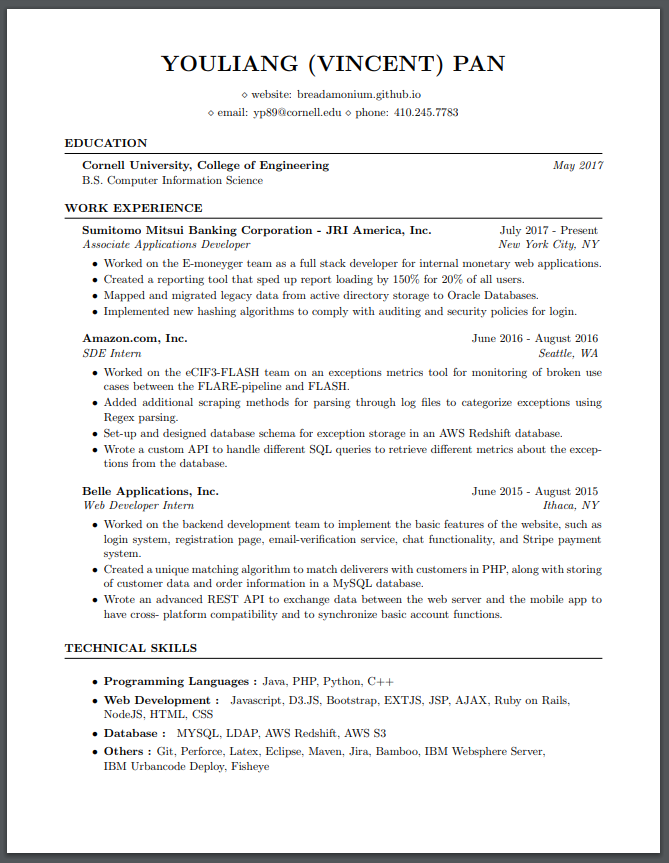
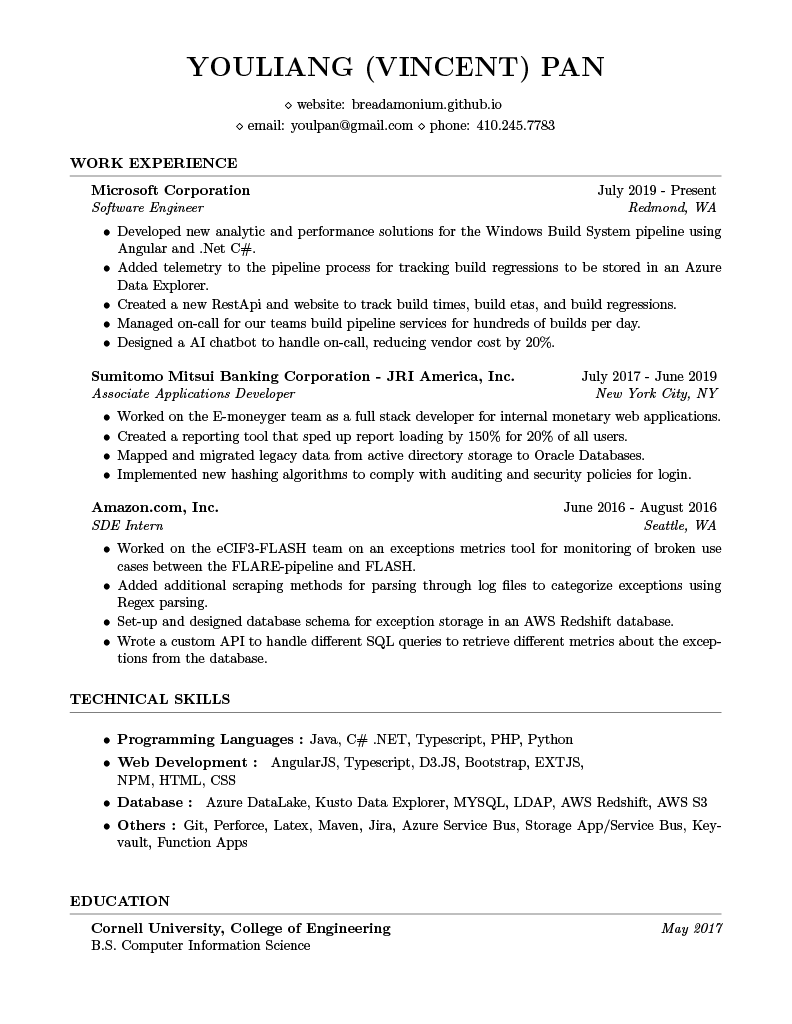
Resume Update

Changed region(s): [[0.0, 0.0, 1.0, 1.0], [0.8371, 0.8737, 0.8969, 0.934]]

diff --git a/index.html b/index.html
@@ -107,17 +107,16 @@
                     <div class="about-content">
                         <br>
                         <h3>Hello! Please call me Vincent!</h3>
-                        <p>I am a full stack software engineer currently working in New York City. 
-                            I graduated from Cornell University with a Bachelor's of Science in Computer Science. 
-                            I am currently an Associate Software Developer at Sumitomo-Misui Banking corporation where I 
-                            create software using Java, Spring, and EXTJS.</p>
+                        <p>I am a full stack software engineer currently working in at Microsoft in Seattle, WA. I work 
+                            on the Window Build Engineering Systems to improve the process
+                            I graduated from Cornell University with a Bachelor's of Science in Computer Information Science.</p>
                     </div>
                 </div>
 
                 <div class="col-xs-12 col-md-4 skills-section">
 
                     <div class="progress-bar-linear">
-                        <p class="progress-bar-text">Java, PHP, Javascript, SQL, HTML</p>
+                        <p class="progress-bar-text">Java, PHP, Typescript, C#, SQL, HTML</p>
                         <div class="progress-cont">
                             <span class="main-color progress-bar-text">Expert</span>
                         </div>
@@ -126,7 +125,7 @@
                         </div>
                     </div>
                     <div class="progress-bar-linear">
-                        <p class="progress-bar-text">Git, Latex, Maven, JIRA, Bamboo, AWS (Various), Bootstrap, CSS</p>
+                        <p class="progress-bar-text">Git, Latex, JIRA, Azure (Various,) AWS (Various), Bootstrap, CSS</p>
                         <div class="progress-cont">
                             <span class="main-color progress-bar-text">Proficient</span>
                         </div>
@@ -135,7 +134,7 @@
                         </div>
                     </div>
                     <div class="progress-bar-linear">
-                        <p class="progress-bar-text">C, C++, Ruby on Rails, Python, OCaml, NodeJS, D3.js</p>
+                        <p class="progress-bar-text">C, C++, Python, NodeJS, D3.js</p>
                         <div class="progress-cont">
                             <span class="main-color progress-bar-text">Familiar</span>
                         </div>
@@ -169,7 +168,8 @@
                             <h3>WEB DEVELOPMENT</h3>
                             <div class="s-line"></div>
                             <p>I've been enthralled by Web development ever since I took CS2300 at Cornell. It is by far the most practical application of programming 
-                                that can affect the lives of millions. <br> My backend skills lie primarily in Java and PHP, but I have also used NodeJS to build backend services.
+                                that can affect the lives of millions. <br> My backend skills lie primarily in Java and PHP, but I have also used NodeJS to build backend services 
+                                and Angular typescript for front-end..
                             </p>
                         </div>
                     </div>
@@ -184,7 +184,7 @@
                             <h3>UX DESIGN</h3>
                             <div class="s-line"></div>
                             <p>Good design can make or break new applications. With the advancement of technology, even seconds shaved in user interaction simply "feels" right in this modern world.
-                                <br> I am very good at native Javascript, and have worked alot in EXTJS. I have experimented with React and VueJS.
+                                <br> I am very good at native Javascript, and have worked with EXTJS and Typescript. 
                             </p>
                         </div>
                     </div>
